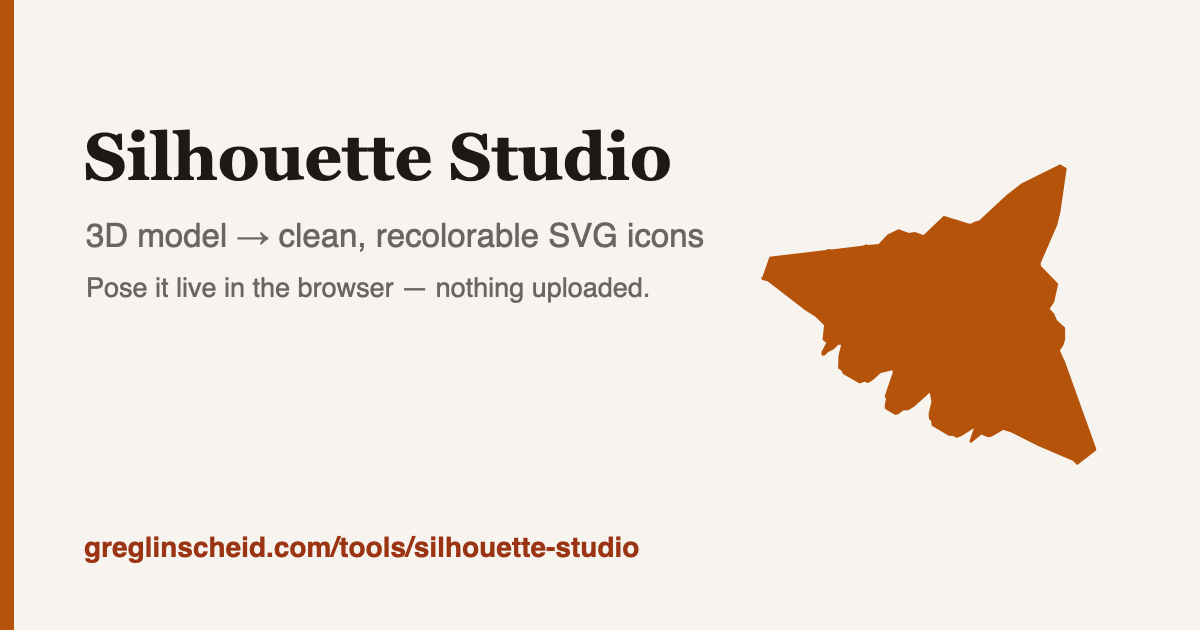
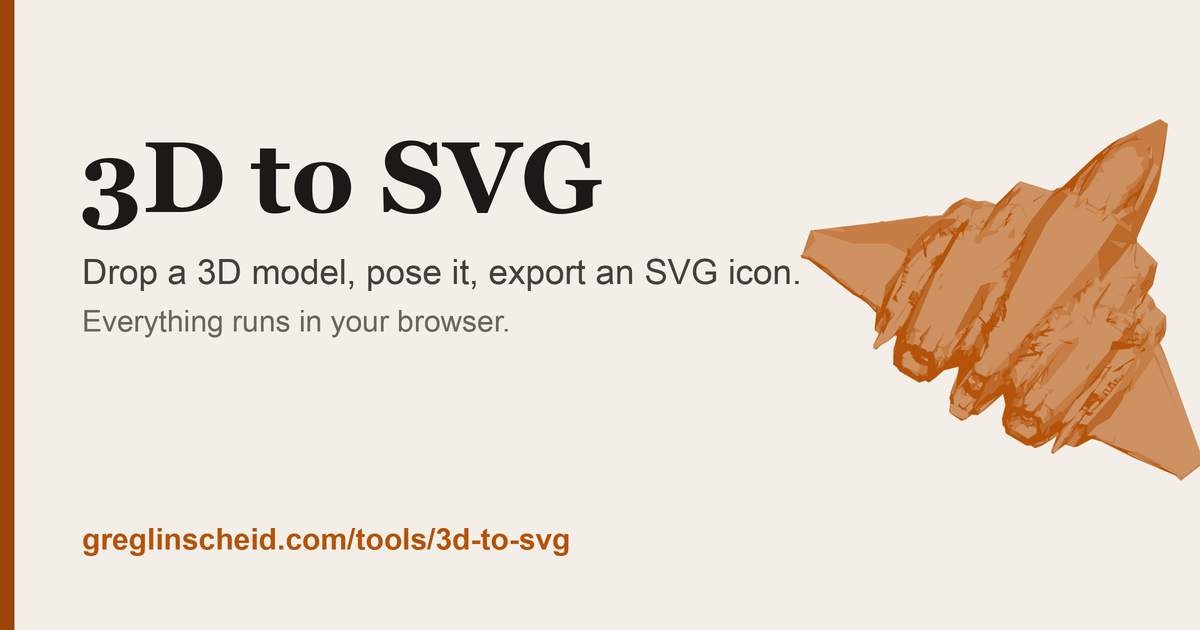
seo!

Changed region(s): [[0.0617, 0.181, 1.0, 0.754], [0.0617, 0.8444, 0.5242, 0.9048]]

diff --git a/src/pages/tools/_3d-to-svg/studio.ts b/src/pages/tools/_3d-to-svg/studio.ts
@@ -146,7 +146,7 @@ function initStudio(): void {
       if (!response.ok) {
         throw new Error(`Failed to fetch model (${response.status})`);
       }
-      await loadModel(await response.arrayBuffer());
+      await loadModel(await response.arrayBuffer(), 'glb');
     } catch (error) {
       onLoadError(error);
     } finally {
@@ -158,7 +158,11 @@ function initStudio(): void {
   async function loadFile(file: File): Promise<void> {
     showLoading();
     try {
-      await loadModel(await file.arrayBuffer());
+      const format = formatFromName(file.name);
+      if (format === undefined) {
+        throw new Error('Unsupported file. Use a .glb, .obj, or .stl model.');
+      }
+      await loadModel(await file.arrayBuffer(), format);
     } catch (error) {
       onLoadError(error);
     } finally {
@@ -187,19 +191,13 @@ function initStudio(): void {
     dropZoneEl.dataset.hidden = 'false';
   }
 
-  /** @sideEffect Parses the GLB, builds the mesh, and mounts the viewport. */
-  async function loadModel(buffer: ArrayBuffer): Promise<void> {
-    const [threeModule, gltfLoaderModule, geometryModule] = await Promise.all([
-      import('three'),
-      import('three/examples/jsm/loaders/GLTFLoader.js'),
-      ensureGeometry()
-    ]);
+  /** @sideEffect Parses the model, builds the mesh, and mounts the viewport. */
+  async function loadModel(buffer: ArrayBuffer, format: ModelFormat): Promise<void> {
+    const [threeModule, geometryModule] = await Promise.all([import('three'), ensureGeometry()]);
     three = threeModule;
     ensureWorker();
 
-    const loader = new gltfLoaderModule.GLTFLoader();
-    const gltf = await loader.parseAsync(buffer, '');
-    primitives = extractPrimitives(gltf.scene);
+    primitives = await parseModel(threeModule, buffer, format);
     rebuildMesh(geometryModule);
 
     mountViewport(threeModule);
@@ -483,15 +481,28 @@ function initStudio(): void {
     requestEmit();
   }
 
-  // Reflect the orientation back onto the Euler sliders (three keeps these in sync).
+  // Reflect the orientation back onto the Euler sliders and number fields.
   function syncControls(): void {
     if (orientation === undefined || three === undefined) {
       return;
     }
     const euler = new three.Euler().setFromQuaternion(orientation, 'XYZ');
-    bankRange.value = bankNumber.value = String(wrapAngle(radToDeg(euler.x)));
-    pitchRange.value = pitchNumber.value = String(wrapAngle(radToDeg(euler.y)));
-    spinRange.value = spinNumber.value = String(wrapAngle(radToDeg(euler.z)));
+    const bank = String(wrapAngle(radToDeg(euler.x)));
+    const pitch = String(wrapAngle(radToDeg(euler.y)));
+    const spin = String(wrapAngle(radToDeg(euler.z)));
+    bankRange.value = bank;
+    pitchRange.value = pitch;
+    spinRange.value = spin;
+    setNumberValue(bankNumber, bank);
+    setNumberValue(pitchNumber, pitch);
+    setNumberValue(spinNumber, spin);
+  }
+
+  // Don't overwrite a number field while the user is typing/stepping in it.
+  function setNumberValue(input: HTMLInputElement, value: string): void {
+    if (document.activeElement !== input) {
+      input.value = value;
+    }
   }
 
   function onSliderInput(): void {
@@ -505,6 +516,15 @@ function initStudio(): void {
       'XYZ'
     );
     applyOrientation(new three.Quaternion().setFromEuler(euler));
+  }
+
+  // A number field drives the same pose; mirror it into its slider, then apply.
+  function onNumberInput(slider: HTMLInputElement, numberInput: HTMLInputElement): void {
+    if (numberInput.value === '') {
+      return;
+    }
+    slider.value = numberInput.value;
+    onSliderInput();
   }
 
   function maybeSnap(degrees: number): number {
@@ -580,9 +600,15 @@ function initStudio(): void {
   bankRange.addEventListener('input', onSliderInput);
   pitchRange.addEventListener('input', onSliderInput);
   spinRange.addEventListener('input', onSliderInput);
-  bankNumber.addEventListener('change', onSliderInput);
-  pitchNumber.addEventListener('change', onSliderInput);
-  spinNumber.addEventListener('change', onSliderInput);
+  for (const [slider, numberInput] of [
+    [bankRange, bankNumber],
+    [pitchRange, pitchNumber],
+    [spinRange, spinNumber]
+  ] as const) {
+    const apply = (): void => onNumberInput(slider, numberInput);
+    numberInput.addEventListener('input', apply);
+    numberInput.addEventListener('change', apply);
+  }
 
   snapToggle.addEventListener('change', onSliderInput);
   // Reset returns to the model's default pose (the angle it loads at), not flat-zero.
@@ -612,6 +638,8 @@ function initStudio(): void {
   viewportEl.addEventListener('pointercancel', onPointerUp);
 
   dropZoneEl.addEventListener('click', () => fileInputEl.click());
+  // Sits over the viewport, so keep its click from also starting an arcball drag.
+  loadButtonEl.addEventListener('pointerdown', event => event.stopPropagation());
   loadButtonEl.addEventListener('click', () => fileInputEl.click());
   fileInputEl.addEventListener('change', () => {
     const file = fileInputEl.files?.[0];
@@ -677,6 +705,42 @@ function initStudio(): void {
 /*
  * Helpers.
  */
+
+type ModelFormat = 'glb' | 'obj' | 'stl';
+
+function formatFromName(name: string): ModelFormat | undefined {
+  const lower = name.toLowerCase();
+  if (lower.endsWith('.glb')) {
+    return 'glb';
+  }
+  if (lower.endsWith('.obj')) {
+    return 'obj';
+  }
+  if (lower.endsWith('.stl')) {
+    return 'stl';
+  }
+  return undefined;
+}
+
+// Parse a model buffer with the loader for its format, returning raw primitives.
+// Each loader is imported on demand so its code only ships when that format is used.
+async function parseModel(
+  three: ThreeModule,
+  buffer: ArrayBuffer,
+  format: ModelFormat
+): Promise<RawPrimitive[]> {
+  if (format === 'obj') {
+    const {OBJLoader} = await import('three/examples/jsm/loaders/OBJLoader.js');
+    return extractPrimitives(new OBJLoader().parse(new TextDecoder().decode(buffer)));
+  }
+  if (format === 'stl') {
+    const {STLLoader} = await import('three/examples/jsm/loaders/STLLoader.js');
+    return extractPrimitives(new three.Mesh(new STLLoader().parse(buffer)));
+  }
+  const {GLTFLoader} = await import('three/examples/jsm/loaders/GLTFLoader.js');
+  const gltf = await new GLTFLoader().parseAsync(buffer, '');
+  return extractPrimitives(gltf.scene);
+}
 
 function extractPrimitives(scene: THREE.Object3D): RawPrimitive[] {
   scene.updateMatrixWorld(true);

diff --git a/src/pages/tools/_3d-to-svg/studio.css.ts b/src/pages/tools/_3d-to-svg/studio.css.ts
@@ -128,9 +128,12 @@ export const dropZone = style({
     }
   },
   selectors: {
+    // Dim the model behind a scrim and show the prompt in plain white, so it
+    // reads clearly over any model in either theme (it only appears on drag-over).
     '&[data-dragover="true"]': {
       borderColor: palette.accent,
-      color: palette.text
+      backgroundColor: 'rgba(0, 0, 0, 0.72)',
+      color: '#ffffff'
     },
     '&[data-hidden="true"]': {
       display: 'none'
@@ -177,16 +180,8 @@ export const spinner = style({
   }
 });
 
-// Row under the viewport: the load button plus any status/error text.
-export const loadRow = style({
-  marginTop: '0.75rem',
-  display: 'flex',
-  alignItems: 'center',
-  gap: '0.75rem',
-  flexWrap: 'wrap'
-});
-
 export const status = style({
+  marginTop: '0.75rem',
   minHeight: '1.4em',
   fontSize: '0.85rem',
   color: palette.textMuted,
@@ -472,15 +467,11 @@ export const copyButton = style({
   border: `1px solid ${palette.border}`,
   borderRadius: '6px',
   cursor: 'pointer',
-  transition: 'color 120ms ease, border-color 120ms ease',
   '@media': {
     [media.dark]: {
       color: palette.textMutedDark,
       backgroundColor: palette.surfaceDark,
       borderColor: palette.borderDark
-    },
-    [media.reducedMotion]: {
-      transition: 'none'
     },
     [media.coarsePointer]: {
       width: touchTargetMin,
@@ -498,6 +489,46 @@ export const copyButton = style({
     '&[data-copied="true"]': {
       color: palette.accent,
       borderColor: palette.accent
+    }
+  }
+});
+
+// Tucked into the pane's top-right corner (inside the pane, outside the dashed
+// scan frame). Borderless so it doesn't compete with the frame; the accent only
+// shows on hover/focus. Rounded close to the pane's 12px so the corner nests.
+export const loadButton = style({
+  position: 'absolute',
+  top: '0.3rem',
+  right: '0.3rem',
+  zIndex: 3,
+  display: 'inline-flex',
+  alignItems: 'center',
+  justifyContent: 'center',
+  width: '2rem',
+  height: '2rem',
+  padding: 0,
+  color: palette.textMuted,
+  background: 'transparent',
+  border: '1px solid transparent',
+  borderRadius: '10px',
+  cursor: 'pointer',
+  '@media': {
+    [media.dark]: {
+      color: palette.textMutedDark
+    },
+    [media.coarsePointer]: {
+      width: touchTargetMin,
+      height: touchTargetMin
+    }
+  },
+  selectors: {
+    '&:hover': {
+      color: palette.accent,
+      borderColor: palette.accent
+    },
+    '&:focus-visible': {
+      outline: `2px solid ${palette.accent}`,
+      outlineOffset: '2px'
     }
   }
 });
